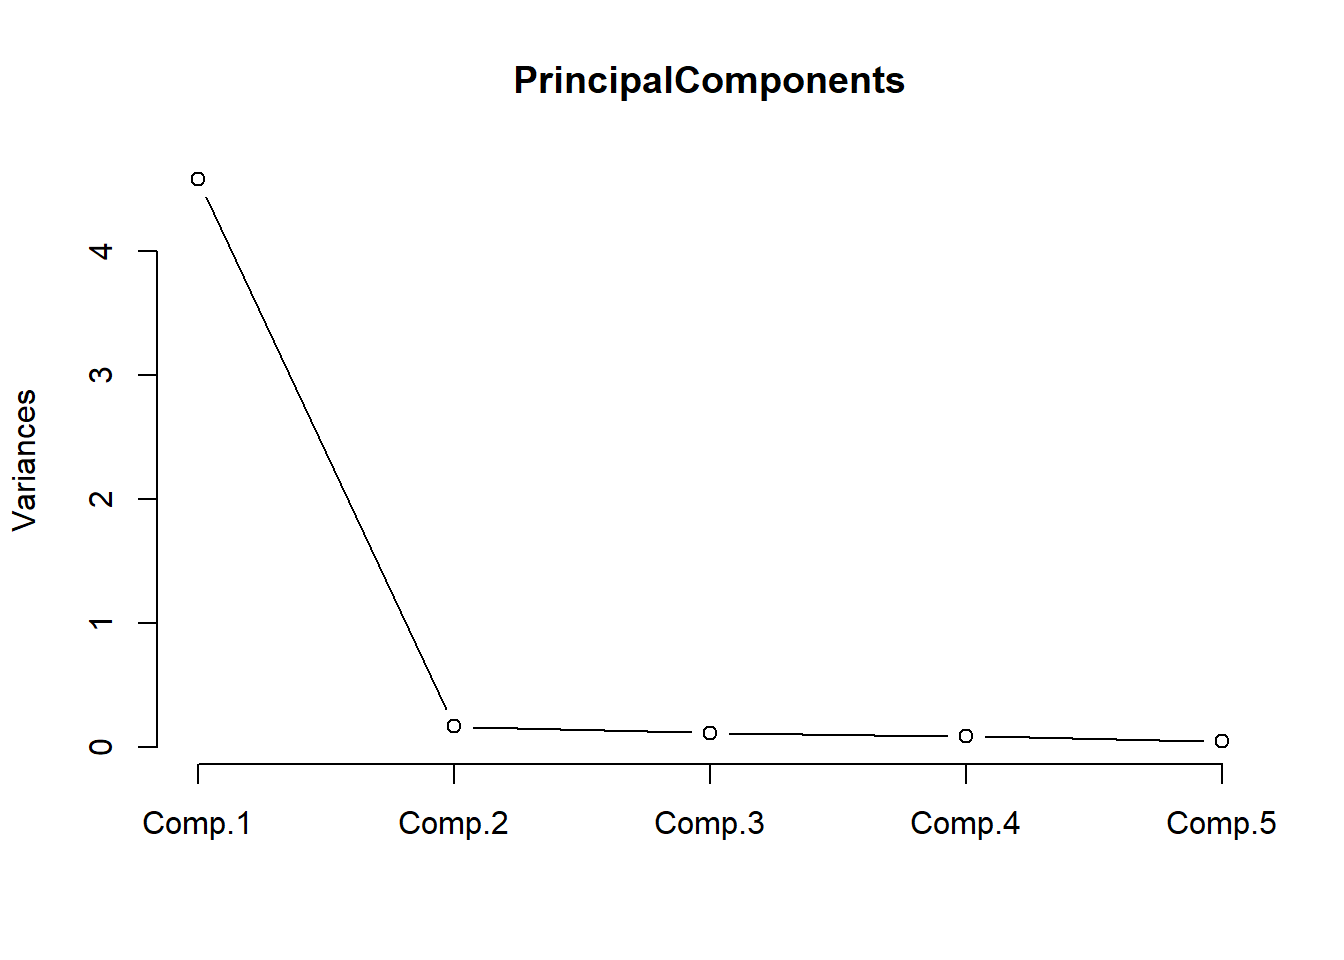
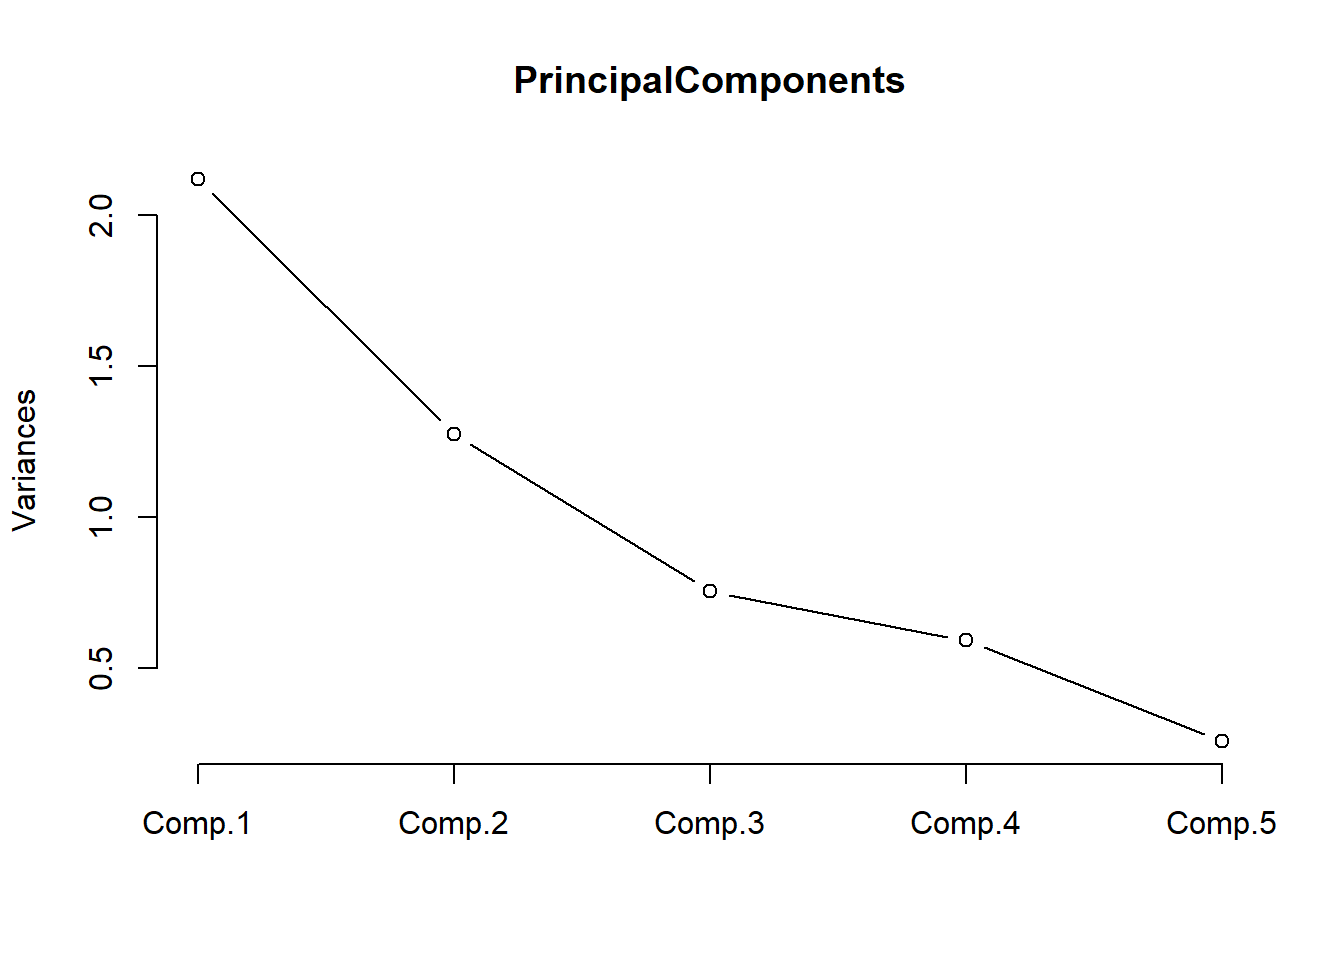
new survey update

diff --git a/surveys.html b/surveys.html
@@ -577,7 +577,7 @@ library(MASS)
 # load data
 plotdata &lt;- read.delim(&quot;https://slcladal.github.io/data/lmmdata.txt&quot;, 
                        sep = &quot;\t&quot;, header = TRUE)
-likertdata1 &lt;- read.delim(&quot;data/likertdata1.txt&quot;, 
+likertdata1 &lt;- read.delim(&quot;https://slcladal.github.io/data/likertdata1.txt&quot;, 
                        sep = &quot;\t&quot;, header = TRUE)
 likertdata2 &lt;- read.delim(&quot;https://slcladal.github.io/data/likertdata2.txt&quot;, 
                        sep = &quot;\t&quot;, header = TRUE)
@@ -1146,7 +1146,7 @@ plot(likertdata2)</code></pre>
 <pre class="r"><code># activate package
 library(psych)
 # load data
-surveydata &lt;- read.delim(&quot;data/surveydata1.txt&quot;, sep = &quot;\t&quot;, header = T)
+surveydata &lt;- read.delim(&quot;https://slcladal.github.io/data/surveydata1.txt&quot;, sep = &quot;\t&quot;, header = T)
 # inpsect data
 kable(head(surveydata), caption = &quot;First 6 rows of surveydata&quot;)</code></pre>
 <table>
@@ -1185,10 +1185,10 @@ kable(head(surveydata), caption = &quot;First 6 rows of surveydata&quot;)</code>
 <td align="right">2</td>
 <td align="right">2</td>
 <td align="right">3</td>
-<td align="right">3</td>
+<td align="right">1</td>
 <td align="right">2</td>
 <td align="right">3</td>
-<td align="right">3</td>
+<td align="right">1</td>
 </tr>
 <tr class="even">
 <td align="left">Respondent_02</td>
@@ -1202,11 +1202,11 @@ kable(head(surveydata), caption = &quot;First 6 rows of surveydata&quot;)</code>
 <td align="right">2</td>
 <td align="right">1</td>
 <td align="right">2</td>
-<td align="right">4</td>
-<td align="right">4</td>
-<td align="right">4</td>
-<td align="right">5</td>
-<td align="right">4</td>
+<td align="right">3</td>
+<td align="right">3</td>
+<td align="right">3</td>
+<td align="right">3</td>
+<td align="right">3</td>
 </tr>
 <tr class="odd">
 <td align="left">Respondent_03</td>
@@ -1220,10 +1220,10 @@ kable(head(surveydata), caption = &quot;First 6 rows of surveydata&quot;)</code>
 <td align="right">1</td>
 <td align="right">2</td>
 <td align="right">2</td>
-<td align="right">5</td>
 <td align="right">4</td>
+<td align="right">3</td>
 <td align="right">4</td>
-<td align="right">4</td>
+<td align="right">2</td>
 <td align="right">4</td>
 </tr>
 <tr class="even">
@@ -1238,11 +1238,11 @@ kable(head(surveydata), caption = &quot;First 6 rows of surveydata&quot;)</code>
 <td align="right">1</td>
 <td align="right">1</td>
 <td align="right">1</td>
-<td align="right">5</td>
+<td align="right">3</td>
 <td align="right">4</td>
-<td align="right">5</td>
-<td align="right">5</td>
-<td align="right">5</td>
+<td align="right">3</td>
+<td align="right">3</td>
+<td align="right">2</td>
 </tr>
 <tr class="odd">
 <td align="left">Respondent_05</td>
@@ -1256,11 +1256,11 @@ kable(head(surveydata), caption = &quot;First 6 rows of surveydata&quot;)</code>
 <td align="right">1</td>
 <td align="right">2</td>
 <td align="right">1</td>
+<td align="right">2</td>
+<td align="right">3</td>
 <td align="right">4</td>
-<td align="right">5</td>
-<td align="right">4</td>
-<td align="right">5</td>
-<td align="right">5</td>
+<td align="right">3</td>
+<td align="right">3</td>
 </tr>
 <tr class="even">
 <td align="left">Respondent_06</td>
@@ -1269,16 +1269,16 @@ kable(head(surveydata), caption = &quot;First 6 rows of surveydata&quot;)</code>
 <td align="right">5</td>
 <td align="right">5</td>
 <td align="right">4</td>
-<td align="right">5</td>
+<td align="right">2</td>
+<td align="right">2</td>
+<td align="right">2</td>
+<td align="right">2</td>
+<td align="right">2</td>
 <td align="right">4</td>
-<td align="right">5</td>
-<td align="right">2</td>
-<td align="right">2</td>
-<td align="right">1</td>
-<td align="right">2</td>
-<td align="right">1</td>
-<td align="right">2</td>
-<td align="right">1</td>
+<td align="right">3</td>
+<td align="right">3</td>
+<td align="right">4</td>
+<td align="right">3</td>
 </tr>
 </tbody>
 </table>
@@ -1289,43 +1289,46 @@ Cronbach &lt;- alpha(surveydata[c(&quot;Q01_Outgoing&quot;,
                    &quot;Q02_Outgoing&quot;,  
                    &quot;Q03_Outgoing&quot;,  
                    &quot;Q04_Outgoing&quot;,  
-                   &quot;Q05_Outgoing&quot;)], check.keys=F)
-# inspect results
+                   &quot;Q05_Outgoing&quot;)], check.keys=F)</code></pre>
+<pre><code>## Some items ( Q04_Outgoing Q05_Outgoing ) were negatively correlated with the total scale and 
+## probably should be reversed.  
+## To do this, run the function again with the &#39;check.keys=TRUE&#39; option</code></pre>
+<pre class="r"><code># inspect results
 Cronbach</code></pre>
 <pre><code>## 
 ## Reliability analysis   
 ## Call: alpha(x = surveydata[c(&quot;Q01_Outgoing&quot;, &quot;Q02_Outgoing&quot;, &quot;Q03_Outgoing&quot;, 
 ##     &quot;Q04_Outgoing&quot;, &quot;Q05_Outgoing&quot;)], check.keys = F)
 ## 
-##   raw_alpha std.alpha G6(smc) average_r S/N    ase mean  sd median_r
-##       0.98      0.98    0.97      0.89  42 0.0083  3.1 1.5      0.9
+##   raw_alpha std.alpha G6(smc) average_r  S/N  ase mean   sd median_r
+##        0.2      0.19    0.42     0.044 0.23 0.29  4.5 0.26     0.12
 ## 
 ##  lower alpha upper     95% confidence boundaries
-## 0.96 0.98 0.99 
+## -0.36 0.2 0.76 
 ## 
 ##  Reliability if an item is dropped:
-##              raw_alpha std.alpha G6(smc) average_r S/N alpha se   var.r med.r
-## Q01_Outgoing      0.97      0.97    0.97      0.89  33   0.0108 0.00099  0.89
-## Q02_Outgoing      0.97      0.97    0.96      0.89  31   0.0116 0.00054  0.89
-## Q03_Outgoing      0.97      0.97    0.97      0.90  35   0.0104 0.00095  0.90
-## Q04_Outgoing      0.97      0.97    0.96      0.89  31   0.0115 0.00086  0.89
-## Q05_Outgoing      0.98      0.98    0.97      0.91  41   0.0088 0.00034  0.91
+##              raw_alpha std.alpha G6(smc) average_r    S/N alpha se var.r med.r
+## Q01_Outgoing    -0.054      0.03    0.22    0.0077  0.031     0.39 0.080  0.12
+## Q02_Outgoing    -0.048     -0.11    0.30   -0.0263 -0.103     0.38 0.190 -0.11
+## Q03_Outgoing     0.074      0.13    0.21    0.0362  0.150     0.35 0.049  0.12
+## Q04_Outgoing     0.471      0.44    0.52    0.1625  0.776     0.19 0.090  0.14
+## Q05_Outgoing     0.188      0.14    0.43    0.0401  0.167     0.29 0.185  0.12
 ## 
 ##  Item statistics 
-##               n raw.r std.r r.cor r.drop mean  sd
-## Q01_Outgoing 20  0.96  0.96  0.95   0.94  3.1 1.5
-## Q02_Outgoing 20  0.97  0.97  0.96   0.95  3.2 1.6
-## Q03_Outgoing 20  0.95  0.95  0.94   0.93  3.1 1.5
-## Q04_Outgoing 20  0.97  0.97  0.96   0.95  3.0 1.6
-## Q05_Outgoing 20  0.94  0.94  0.91   0.90  3.2 1.6
+##               n raw.r std.r r.cor r.drop mean   sd
+## Q01_Outgoing 20  0.66  0.58  0.57  0.259  4.4 0.60
+## Q02_Outgoing 20  0.62  0.66  0.45  0.300  4.6 0.49
+## Q03_Outgoing 20  0.59  0.50  0.52  0.164  4.4 0.60
+## Q04_Outgoing 20  0.12  0.19 -0.14 -0.266  4.5 0.51
+## Q05_Outgoing 20  0.42  0.49  0.18  0.066  4.7 0.47
 ## 
 ## Non missing response frequency for each item
-##                 1   2    3    4    5 miss
-## Q01_Outgoing 0.20 0.2 0.10 0.25 0.25    0
-## Q02_Outgoing 0.15 0.3 0.05 0.15 0.35    0
-## Q03_Outgoing 0.15 0.3 0.05 0.25 0.25    0
-## Q04_Outgoing 0.25 0.2 0.05 0.30 0.20    0
-## Q05_Outgoing 0.20 0.2 0.10 0.20 0.30    0</code></pre>
+##                 3    4    5 miss
+## Q01_Outgoing 0.05 0.50 0.45    0
+## Q02_Outgoing 0.00 0.35 0.65    0
+## Q03_Outgoing 0.05 0.50 0.45    0
+## Q04_Outgoing 0.00 0.50 0.50    0
+## Q05_Outgoing 0.00 0.30 0.70    0</code></pre>
 <p>The output of the “alpha()” function is rather extensive and we will only interpret selected output here.</p>
 <p>The value under alpha is Cronbach’s <span class="math inline">\(\alpha\)</span> and it should be above 0.7. The values to its left and right are the lower and upper bound of its confidence interval. The values in the column with the header “G6” show how well each question represents the concept it aims to reflect. Low values indicate that the question does not reflect the underyling concept while high values (.7 and higher) indicate that the question acptures that concept well (or to an acceptable degree).</p>
 </div>
@@ -1345,40 +1348,40 @@ print(factoranalysis, digits=2, cutoff=.2, sort=TRUE)</code></pre>
 ## 
 ## Uniquenesses:
 ##     Q01_Outgoing     Q02_Outgoing     Q03_Outgoing     Q04_Outgoing 
-##             0.09             0.06             0.12             0.07 
+##             0.33             0.70             0.00             0.70 
 ##     Q05_Outgoing Q06_Intelligence Q07_Intelligence Q08_Intelligence 
-##             0.14             0.10             0.13             0.10 
+##             0.94             0.70             0.83             0.93 
 ## Q09_Intelligence Q10_Intelligence     Q11_Attitude     Q12_Attitude 
-##             0.28             0.41             0.08             0.14 
+##             0.80             0.83             0.79             0.39 
 ##     Q13_Attitude     Q14_Attitude     Q15_Attitude 
-##             0.04             0.09             0.06 
+##             0.61             0.87             0.00 
 ## 
 ## Loadings:
 ##                  Factor1 Factor2 Factor3
-## Q06_Intelligence -0.82    0.25    0.41  
-## Q07_Intelligence -0.80            0.47  
-## Q08_Intelligence -0.85            0.42  
-## Q09_Intelligence -0.79            0.29  
-## Q11_Attitude      0.96                  
-## Q12_Attitude      0.92                  
-## Q13_Attitude      0.97                  
-## Q14_Attitude      0.95                  
-## Q15_Attitude      0.96                  
-## Q01_Outgoing              0.94          
-## Q02_Outgoing              0.96          
-## Q03_Outgoing              0.93          
-## Q04_Outgoing              0.96          
-## Q05_Outgoing              0.92          
-## Q10_Intelligence -0.22   -0.46    0.57  
+## Q01_Outgoing      0.73    0.22    0.28  
+## Q03_Outgoing      0.99                  
+## Q04_Outgoing     -0.52                  
+## Q02_Outgoing             -0.51          
+## Q12_Attitude              0.60   -0.49  
+## Q13_Attitude      0.26    0.56          
+## Q15_Attitude              0.98          
+## Q05_Outgoing                      0.21  
+## Q06_Intelligence  0.25            0.49  
+## Q07_Intelligence                  0.41  
+## Q08_Intelligence         -0.25          
+## Q09_Intelligence                  0.41  
+## Q10_Intelligence                  0.38  
+## Q11_Attitude                      0.42  
+## Q14_Attitude      0.35                  
 ## 
 ##                Factor1 Factor2 Factor3
-## SS loadings       7.29    4.78    1.02
-## Proportion Var    0.49    0.32    0.07
-## Cumulative Var    0.49    0.80    0.87
+## SS loadings       2.14    2.09    1.32
+## Proportion Var    0.14    0.14    0.09
+## Cumulative Var    0.14    0.28    0.37
 ## 
 ## Test of the hypothesis that 3 factors are sufficient.
-## The chi square statistic is 62.79 on 63 degrees of freedom.
-## The p-value is 0.484</code></pre>
+## The chi square statistic is 41.93 on 63 degrees of freedom.
+## The p-value is 0.981</code></pre>
 <p>The results of a factor analysis can be visualized so that questions which reflect the same underlying factor are grouped together.</p>
 <pre class="r"><code># plot factor 1 by factor 2
 load &lt;- factoranalysis$loadings[,1:2]
@@ -1401,20 +1404,20 @@ PrincipalComponents &lt;- princomp(surveydata[c(&quot;Q01_Outgoing&quot;,
                    &quot;Q05_Outgoing&quot;)], cor=TRUE)
 summary(PrincipalComponents) # print variance accounted for</code></pre>
 <pre><code>## Importance of components:
-##                           Comp.1     Comp.2     Comp.3     Comp.4      Comp.5
-## Standard deviation     2.1399452 0.41221349 0.33747971 0.29869830 0.218177126
-## Proportion of Variance 0.9158731 0.03398399 0.02277851 0.01784413 0.009520252
-## Cumulative Proportion  0.9158731 0.94985710 0.97263561 0.99047975 1.000000000</code></pre>
+##                           Comp.1    Comp.2    Comp.3    Comp.4     Comp.5
+## Standard deviation     1.4549024 1.1291049 0.8695003 0.7700600 0.50927188
+## Proportion of Variance 0.4233482 0.2549756 0.1512062 0.1185985 0.05187157
+## Cumulative Proportion  0.4233482 0.6783238 0.8295299 0.9481284 1.00000000</code></pre>
 <p>The output shows that the first component (Comp.1) explains 91.58 percent of the variance. This shows that we only lose 8.42 percent of the variance if we use this component as a proxy for “outgoingness” if we use th collapsed componnet rather than the five individual items.</p>
 <pre class="r"><code>loadings(PrincipalComponents) # pc loadings</code></pre>
 <pre><code>## 
 ## Loadings:
 ##              Comp.1 Comp.2 Comp.3 Comp.4 Comp.5
-## Q01_Outgoing  0.448  0.324         0.831       
-## Q02_Outgoing  0.453  0.242 -0.408 -0.360  0.663
-## Q03_Outgoing  0.446  0.405  0.626 -0.405 -0.286
-## Q04_Outgoing  0.452 -0.191 -0.568 -0.114 -0.650
-## Q05_Outgoing  0.437 -0.798  0.342         0.230
+## Q01_Outgoing  0.572  0.187         0.538  0.589
+## Q02_Outgoing         0.720  0.539 -0.427       
+## Q03_Outgoing  0.619  0.144         0.127 -0.757
+## Q04_Outgoing -0.494  0.250  0.327  0.715 -0.273
+## Q05_Outgoing -0.203  0.603 -0.771              
 ## 
 ##                Comp.1 Comp.2 Comp.3 Comp.4 Comp.5
 ## SS loadings       1.0    1.0    1.0    1.0    1.0
@@ -1425,27 +1428,27 @@ summary(PrincipalComponents) # print variance accounted for</code></pre>
 <p><img src="surveys_files/figure-html/pca_07-1.png" width="672" /></p>
 <p>The scree plot shown above indicates that we only need a single component to explain the variance as there is a steep decline from the first to the second component. This confims that the questions that tap into “outgoingness” represent one (and not more) underlying factors.</p>
 <pre class="r"><code>PrincipalComponents$scores # the principal components</code></pre>
-<pre><code>##           Comp.1      Comp.2      Comp.3       Comp.4      Comp.5
-##  [1,]  1.8381566 -0.36615228 -0.05472481 -0.185982784  0.45151980
-##  [2,]  1.8663059  0.49141424  0.43588461  0.293520579 -0.29327024
-##  [3,]  2.1435874 -0.43109571 -0.14566197  0.529200331 -0.37631017
-##  [4,]  2.4439739  0.12865309  0.39433418  0.093406447  0.28596101
-##  [5,]  2.1362155 -0.49209851 -0.42957061 -0.260901209  0.02261552
-##  [6,]  2.4573568  0.52187899 -0.20319399 -0.014602480 -0.29283073
-##  [7,]  2.1362155 -0.49209851 -0.42957061 -0.260901209  0.02261552
-##  [8,]  1.8506180 -0.24517164  0.63889114 -0.230285827 -0.17380089
-##  [9,]  1.8538444  0.37043360 -0.25773134  0.337823622  0.33205045
-## [10,]  1.8589340  0.43041145  0.15197597 -0.496580962  0.10565545
-## [11,] -2.2853351  0.62953122  0.07366357  0.047245923  0.18176903
-## [12,] -0.8111853  0.23229139 -0.69790263  0.254191848 -0.06639018
-## [13,] -1.1175602 -0.31734547  0.16385834  0.595405408  0.08305777
-## [14,] -2.2853351  0.62953122  0.07366357  0.047245923  0.18176903
-## [15,] -2.2876401  0.28617124 -0.32085807 -0.584569410 -0.27755336
-## [16,] -2.8994684 -0.54085723  0.11151975  0.034151826  0.06787149
-## [17,] -1.7026001 -0.01558712 -0.07849987  0.005417999 -0.09724779
-## [18,] -3.1841445 -0.02168511 -0.11116261  0.001061325 -0.08201597
-## [19,] -1.1124706 -0.25736763  0.57356565 -0.238999176 -0.14333724
-## [20,] -2.8994684 -0.54085723  0.11151975  0.034151826  0.06787149</code></pre>
+<pre><code>##           Comp.1     Comp.2      Comp.3      Comp.4      Comp.5
+##  [1,] -0.4050298  0.4455602 -0.40219008 -1.47464453  0.45749643
+##  [2,]  1.9350553 -1.8112304  0.06394295  0.52667040 -0.04071823
+##  [3,] -0.5574015 -0.2422514 -0.81580701  1.77426692  0.79509727
+##  [4,]  1.6368582  1.0134555 -0.48761210 -0.33432707  0.16953774
+##  [5,] -1.3928326  0.9458957  0.25258587 -0.04379656 -0.08826230
+##  [6,]  1.0929149  0.1987108  1.84863094  1.06163195 -0.45934098
+##  [7,] -1.3928326  0.9458957  0.25258587 -0.04379656 -0.08826230
+##  [8,]  0.5101024 -0.8176090 -1.67904331 -0.36061771 -0.96809378
+##  [9,]  1.0199231 -0.5480612  1.34079619 -0.58735643  1.38487197
+## [10,]  1.0996242 -0.6230834  1.13233583 -1.29139308 -0.92407780
+## [11,] -1.5384950 -0.5637101 -0.87732617  0.85208986 -0.21539828
+## [12,]  1.6368582  1.0134555 -0.48761210 -0.33432707  0.16953774
+## [13,] -3.1365236 -2.4466854  0.88956295 -0.32311655 -0.01055959
+## [14,] -0.5506922 -1.0640455 -1.53210212 -0.57875811  0.33036045
+## [15,] -1.3928326  0.9458957  0.25258587 -0.04379656 -0.08826230
+## [16,]  0.6490554  1.5137909  0.16716385  1.09652090 -0.37622098
+## [17,] -1.3928326  0.9458957  0.25258587 -0.04379656 -0.08826230
+## [18,]  1.9350553 -1.8112304  0.06394295  0.52667040 -0.04071823
+## [19,] -1.3928326  0.9458957  0.25258587 -0.04379656 -0.08826230
+## [20,]  1.6368582  1.0134555 -0.48761210 -0.33432707  0.16953774</code></pre>
 <pre class="r"><code>biplot(PrincipalComponents) </code></pre>
 <p><img src="surveys_files/figure-html/pca_11-1.png" width="672" /></p>
 </div>
